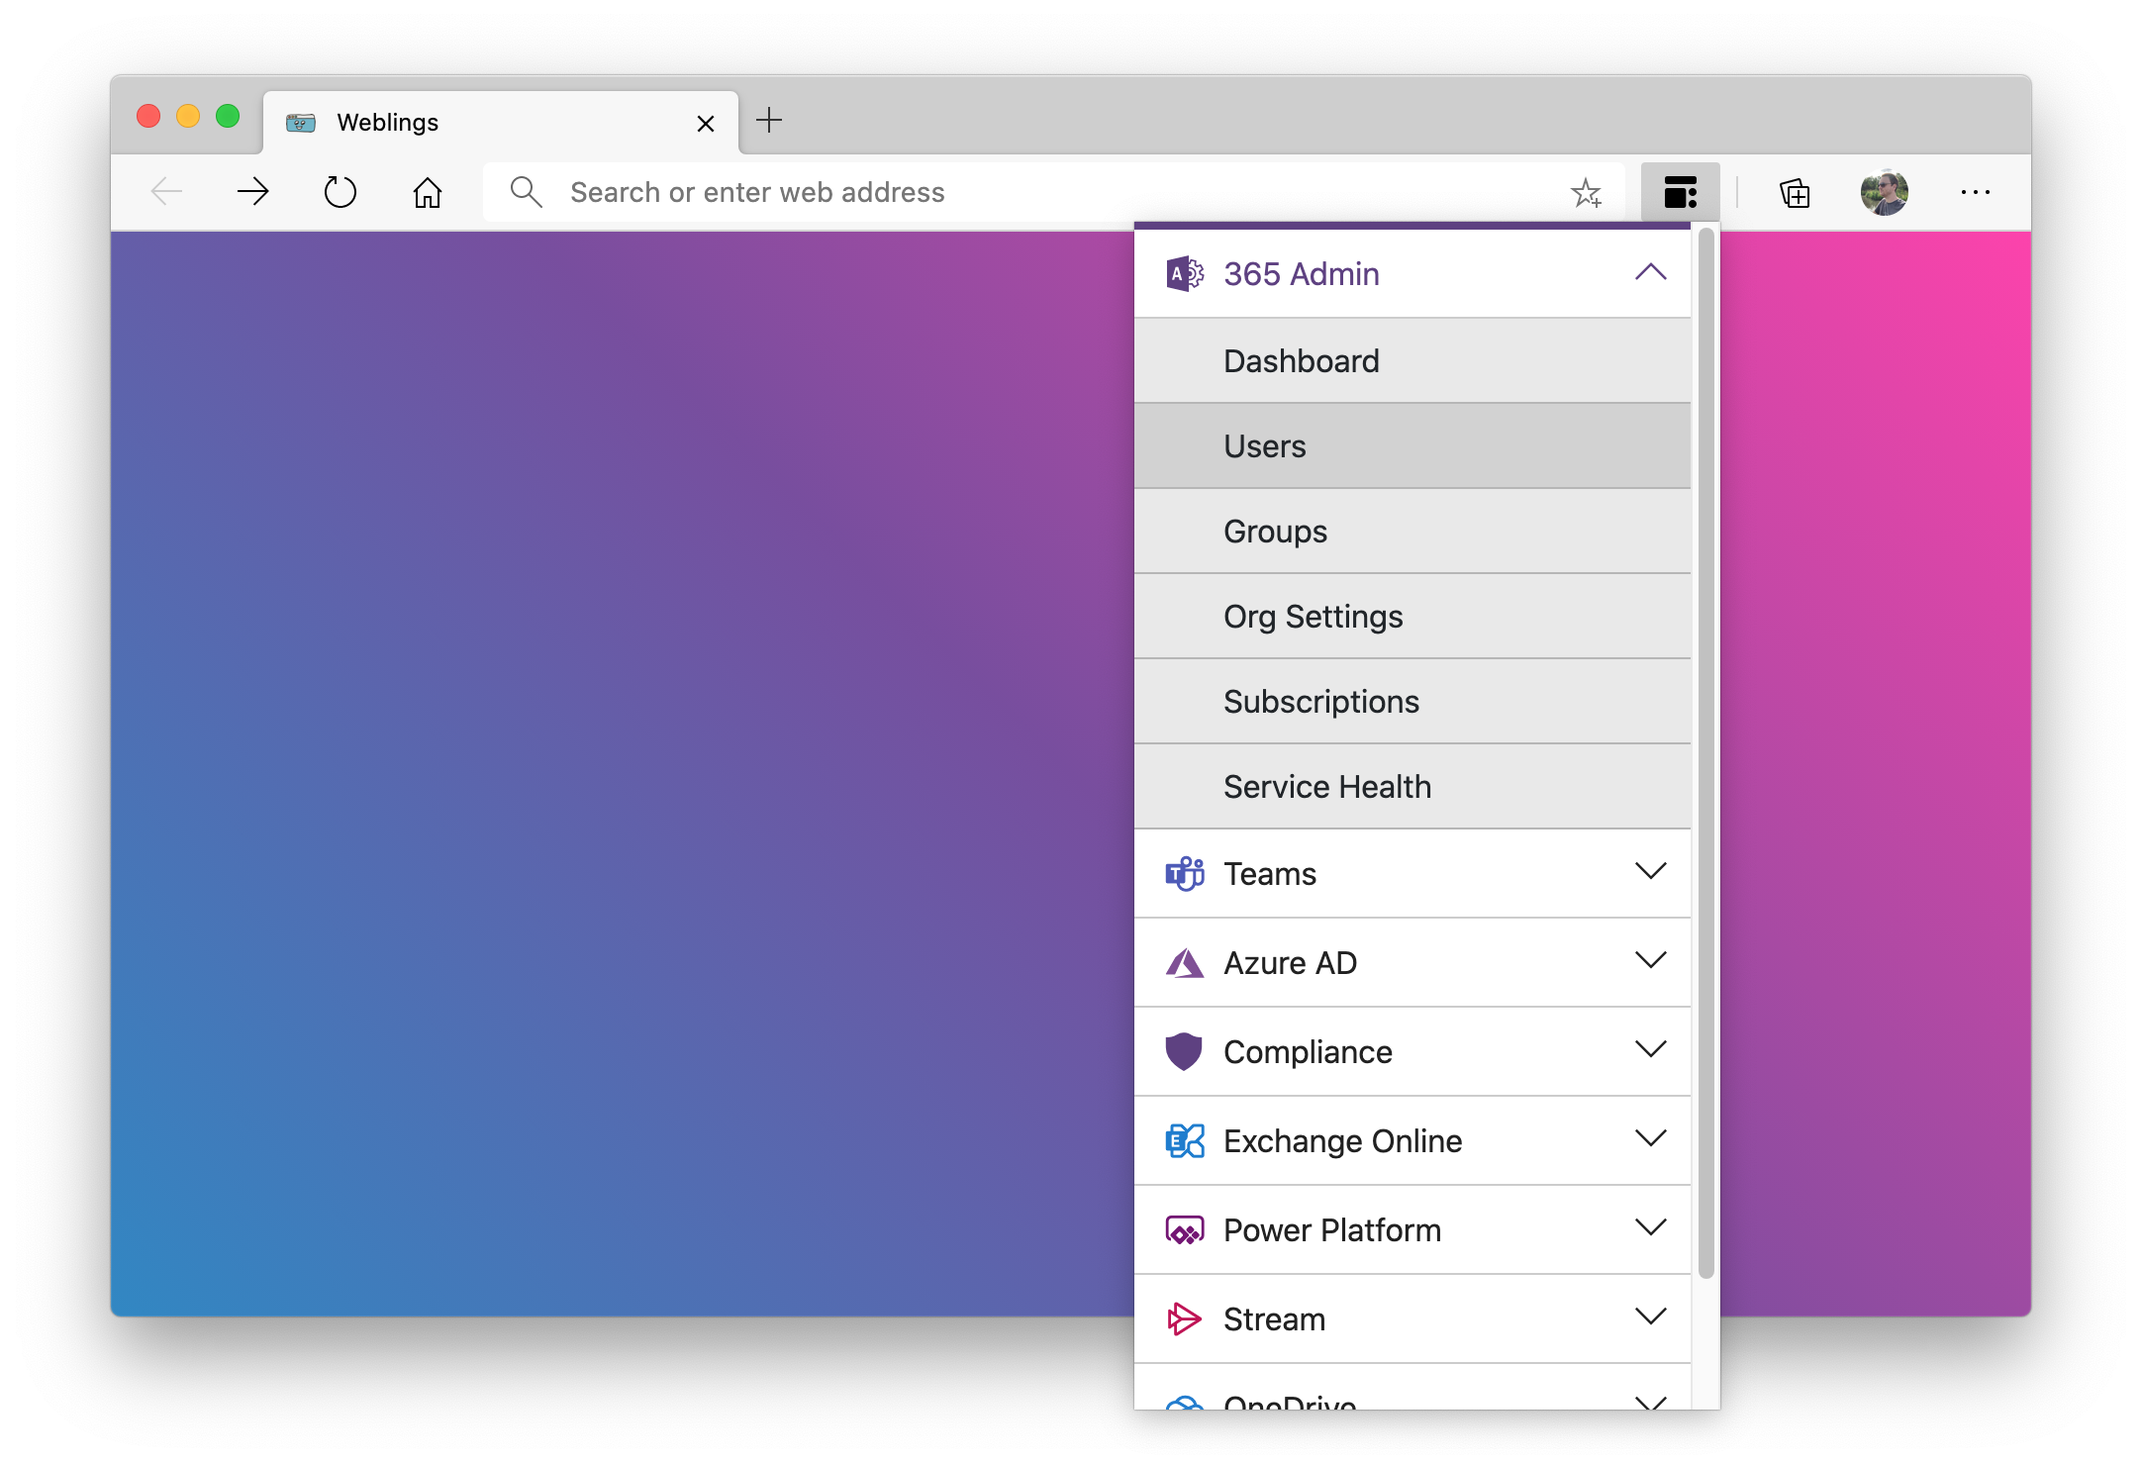
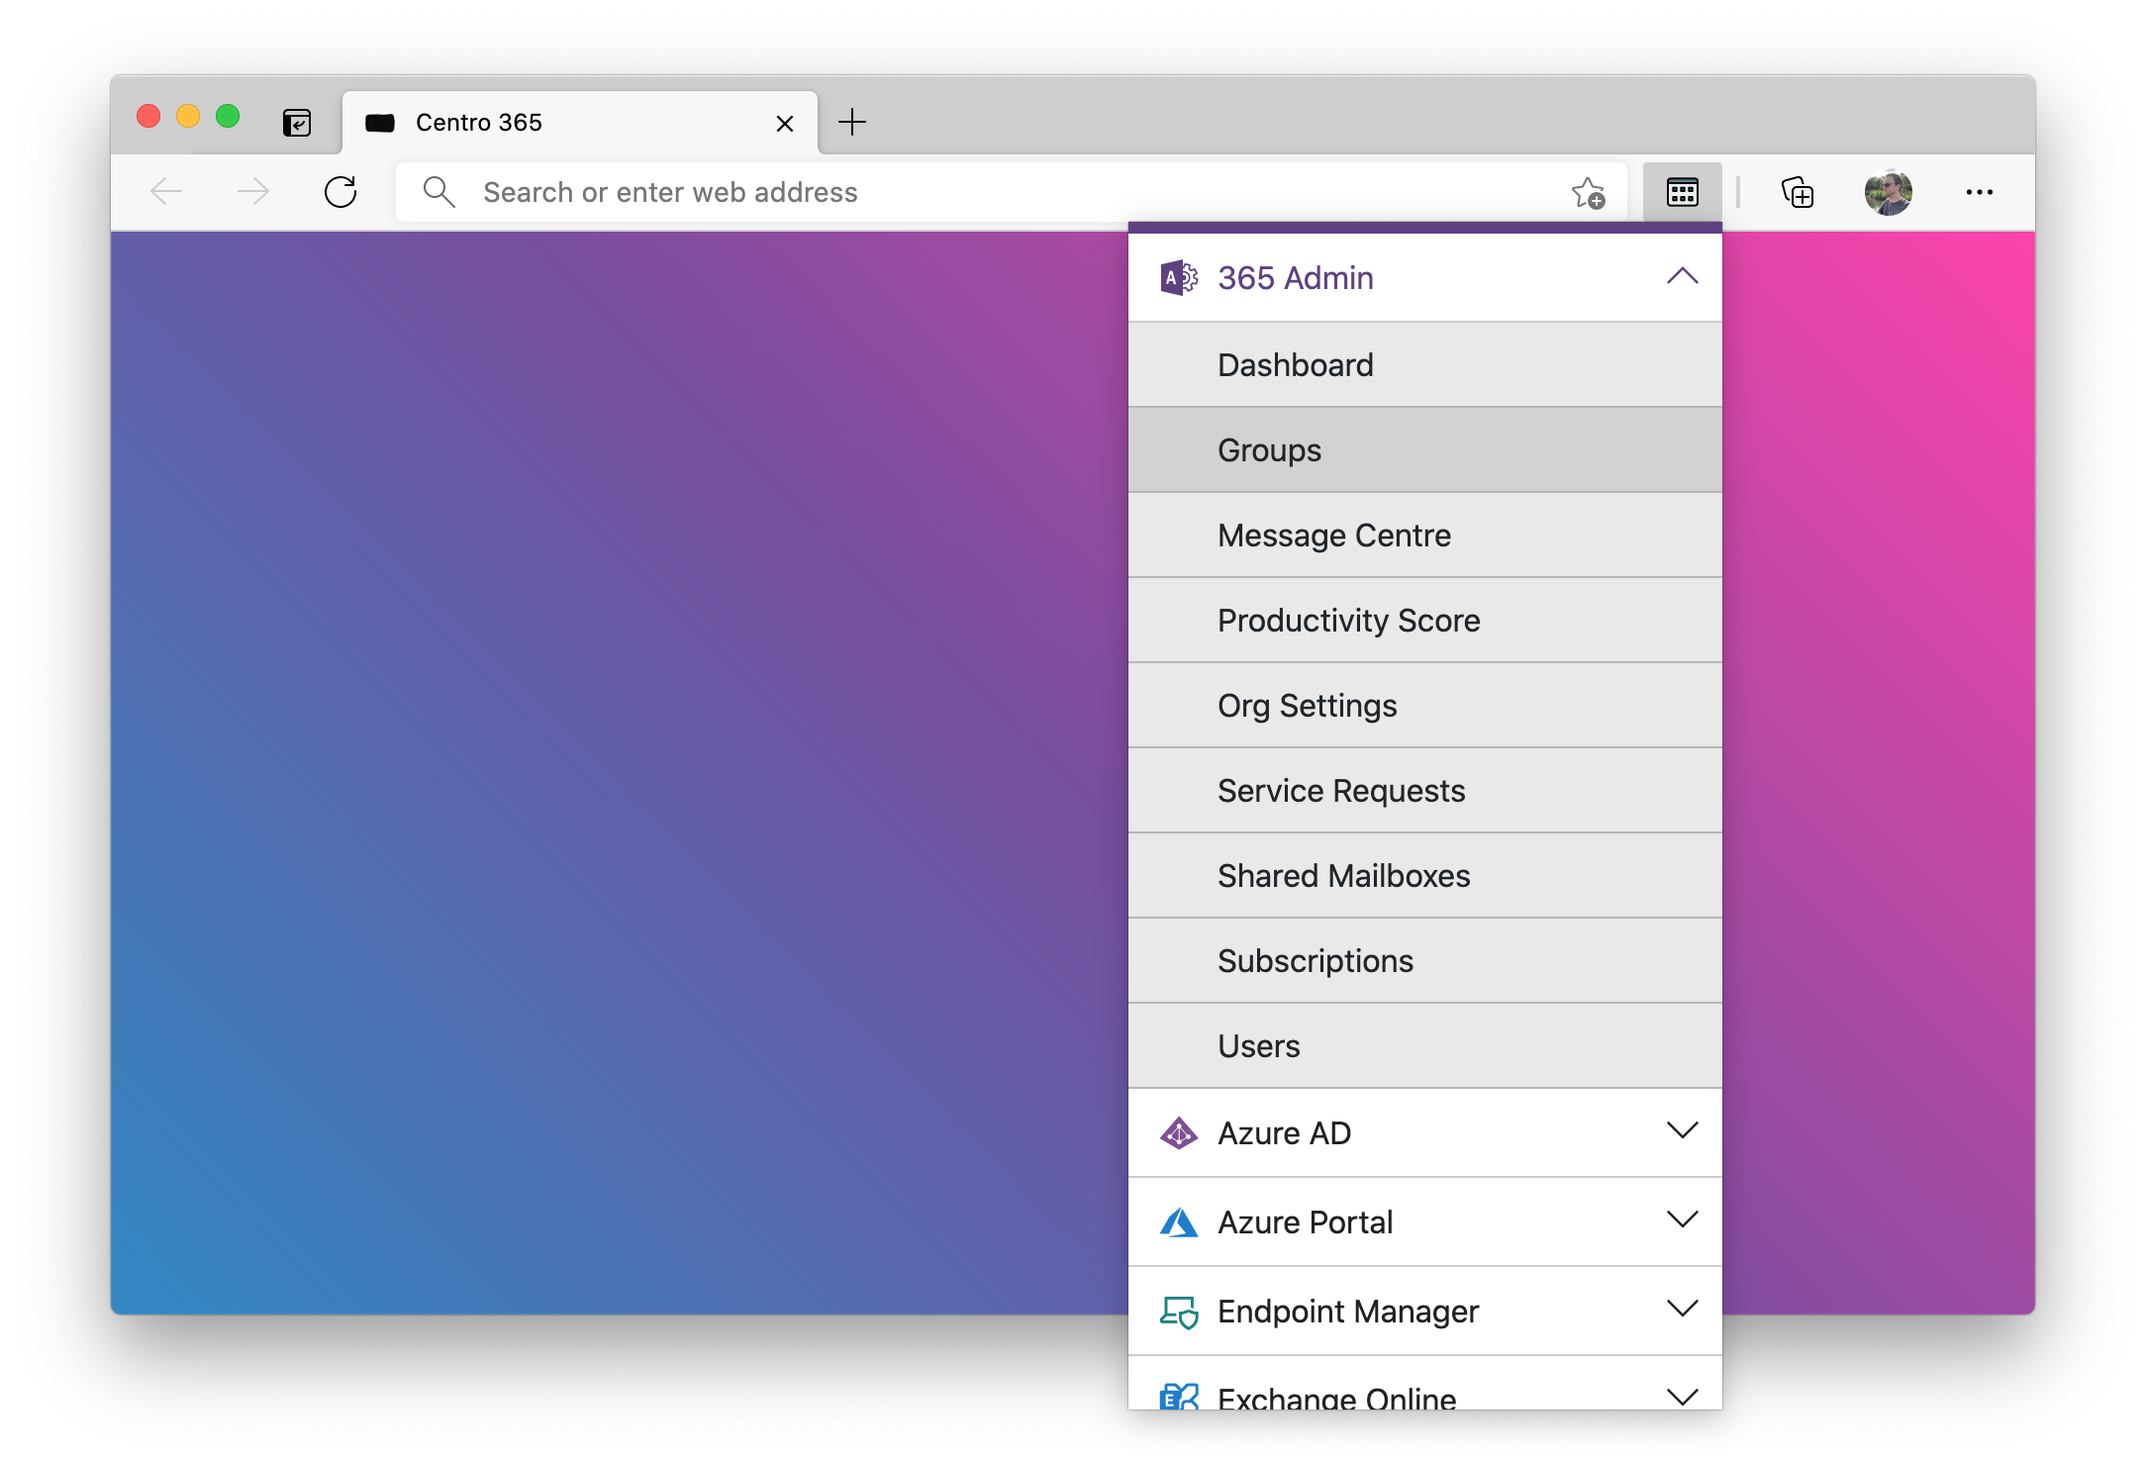
✳ v1.3
New sections, new iconography, additional entries. Small UI improvements.

diff --git a/source/index.html b/source/index.html
@@ -31,7 +31,6 @@
             <li><a href="https://admin.microsoft.com/AdminPortal/Home#/MessageCenter" target="_blank" rel="noopener noreferrer">Message Centre</a></li>
             <li><a href="https://admin.microsoft.com/AdminPortal/Home#/productivityscore" target="_blank" rel="noopener noreferrer">Productivity Score</a></li>
             <li><a href="https://admin.microsoft.com/AdminPortal/Home#/Settings/Services" target="_blank" rel="noopener noreferrer">Org Settings</a></li>
-            <li><a href="https://admin.microsoft.com/AdminPortal/Home#/servicehealth" target="_blank" rel="noopener noreferrer">Service Health</a></li>
             <li><a href="https://admin.microsoft.com/AdminPortal/Home#/support/requests" target="_blank" rel="noopener noreferrer">Service Requests</a></li>
             <li><a href="https://admin.microsoft.com/AdminPortal/Home#/SharedMailbox" target="_blank" rel="noopener noreferrer">Shared Mailboxes</a></li>
             <li><a href="https://admin.microsoft.com/AdminPortal/Home#/subscriptions" target="_blank" rel="noopener noreferrer">Subscriptions</a></li>
@@ -62,10 +61,12 @@
           <ul class="submenuItems">
             <li><a href="https://portal.azure.com/#home" target="_blank" rel="noopener noreferrer">Dashboard</a></li>
             <li><a href="https://portal.azure.com/#blade/Microsoft_Azure_Expert/AdvisorMenuBlade/overview" target="_blank" rel="noopener noreferrer">Advisor</a></li>
+            <li><a href="https://portal.azure.com/#cloudshell" target="_blank" rel="noopener noreferrer">Cloud Shell</a></li>
             <li><a href="https://portal.azure.com/#blade/Microsoft_Azure_Monitoring/AzureMonitoringBrowseBlade/overview" target="_blank" rel="noopener noreferrer">Monitoring & Insights</a></li>
             <li><a href="https://portal.azure.com/#blade/Microsoft_Azure_Policy/PolicyMenuBlade/Overview" target="_blank" rel="noopener noreferrer">Policy</a></li>
             <li><a href="https://portal.azure.com/#blade/HubsExtension/BrowseResource/resourceType/Microsoft.Storage%2FStorageAccounts" target="_blank" rel="noopener noreferrer">Storage Accounts</a></li>
             <li><a href="https://portal.azure.com/#blade/Microsoft_Azure_Billing/SubscriptionsBlade" target="_blank" rel="noopener noreferrer">Subscriptions</a></li>
+            <li><a href="https://portal.azure.com/#blade/Universal_Print/MainMenuBlade/Overview" target="_blank" rel="noopener noreferrer">Universal Print</a></li>
             <li><a href="https://portal.azure.com/#blade/HubsExtension/BrowseResourceBlade/resourceType/Microsoft.Compute%2FVirtualMachines" target="_blank" rel="noopener noreferrer">Virtual Machines</a></li>
             <li><a href="https://portal.azure.com/#blade/HubsExtension/BrowseResource/resourceType/Microsoft.Network%2FvirtualNetworks" target="_blank" rel="noopener noreferrer">Virtual Networks</a></li>
             <li><a href="https://portal.azure.com/#blade/Microsoft_Azure_WVD/WvdManagerMenuBlade/overview" target="_blank" rel="noopener noreferrer">Windows Virtual Desktop</a></li>
@@ -73,16 +74,16 @@
         </li>
 
         <li>
-          <div class="dropdownlink"><i class="ms-Icon ms-Icon ms-Icon--ShieldSolid iconsize" style="color: #5e3f82;" aria-hidden="true"></i> Compliance
+          <div class="dropdownlink"><i class="ms-Icon ms-Icon ms-Icon--LaptopSecure iconsize" style="color: #148386;" aria-hidden="true"></i> Endpoint Manager
               <i class="ms-Icon ms-Icon--ChevronDown" aria-hidden="true"></i>
           </div>
           <ul class="submenuItems">
-            <li><a href="https://compliance.microsoft.com" target="_blank" rel="noopener noreferrer">Home</a></li>
-            <li><a href="https://compliance.microsoft.com/compliancealerts" target="_blank" rel="noopener noreferrer">Alerts</a></li>
-            <li><a href="https://protection.office.com/contentsearchbeta?ContentOnly=1" target="_blank" rel="noopener noreferrer">Content Search</a></li>
-            <li><a href="https://compliance.microsoft.com/compliancemanager" target="_blank" rel="noopener noreferrer">Compliance Manager</a></li>
-            <li><a href="https://compliance.microsoft.com/dataclassification?viewid=overview" target="_blank" rel="noopener noreferrer">Data Classification</a></li>
-            <li><a href="https://protection.office.com/homepage" target="_blank" rel="noopener noreferrer">Office 365 Compliance</a></li>
+            <li><a href="https://endpoint.microsoft.com/#dashboard" target="_blank" rel="noopener noreferrer">Dashboard</a></li>
+            <li><a href="https://endpoint.microsoft.com/#blade/Microsoft_Intune_DeviceSettings/AppsMenu/overview" target="_blank" rel="noopener noreferrer">Apps</a></li>
+            <li><a href="https://endpoint.microsoft.com/#blade/Microsoft_Intune_DeviceSettings/DevicesMenu/overview" target="_blank" rel="noopener noreferrer">Devices</a></li>
+            <li><a href="https://endpoint.microsoft.com/#blade/Microsoft_Intune_Workflows/SecurityManagementMenu/overview" target="_blank" rel="noopener noreferrer">Endpoint Security</a></li>
+            <li><a href="https://endpoint.microsoft.com/#blade/Microsoft_Intune_Enrollment/ReportingMenu/Overview" target="_blank" rel="noopener noreferrer">Reports</a></li>
+            <li><a href="https://endpoint.microsoft.com/#blade/Microsoft_Intune_DeviceSettings/TenantAdminMenu/tenantStatus" target="_blank" rel="noopener noreferrer">Tenant Admin</a></li>
           </ul>
         </li>
 
@@ -122,6 +123,22 @@
             <li><a href="https://admin.powerplatform.microsoft.com/resources/capacity" target="_blank" rel="noopener noreferrer">Capacity</a></li>
             <li><a href="https://admin.powerplatform.microsoft.com/ext/DataIntegration" target="_blank" rel="noopener noreferrer">Data Integration</a></li>
             <li><a href="https://admin.powerplatform.microsoft.com/environments" target="_blank" rel="noopener noreferrer">Environments</a></li>
+            <li><a href="https://powerva.microsoft.com/" target="_blank" rel="noopener noreferrer">Virtual Agents</a></li>
+          </ul>
+        </li>
+
+        <li>
+          <div class="dropdownlink"><i class="ms-Icon ms-Icon ms-Icon--ShieldSolid iconsize" style="color: #8a1040;" aria-hidden="true"></i> Security &amp; Compliance
+              <i class="ms-Icon ms-Icon--ChevronDown" aria-hidden="true"></i>
+          </div>
+          <ul class="submenuItems">
+            <li><a href="https://security.microsoft.com/homepage" target="_blank" rel="noopener noreferrer">365 Security Centre</a></li>
+            <li><a href="https://compliance.microsoft.com/compliancealerts" target="_blank" rel="noopener noreferrer">Alerts</a></li>
+            <li><a href="https://protection.office.com/contentsearchbeta?ContentOnly=1" target="_blank" rel="noopener noreferrer">Content Search</a></li>
+            <li><a href="https://compliance.microsoft.com/compliancemanager" target="_blank" rel="noopener noreferrer">Compliance Manager</a></li>
+            <li><a href="https://compliance.microsoft.com/dataclassification?viewid=overview" target="_blank" rel="noopener noreferrer">Data Classification</a></li>
+            <li><a href="https://securitycenter.windows.com/" target="_blank" rel="noopener noreferrer">Defender Security Centre</a></li>
+            <li><a href="https://protection.office.com/homepage" target="_blank" rel="noopener noreferrer">Office 365 Compliance</a></li>
           </ul>
         </li>
 
@@ -159,6 +176,18 @@
             <li><a href="https://admin.teams.microsoft.com/users" target="_blank" rel="noopener noreferrer">Users</a></li>
           </ul>
         </li>
+
+        <li>
+          <div class="dropdownlink"><i class="ms-Icon ms-Icon ms-Icon--DeveloperTools iconsize" style="color: #5a5154;" aria-hidden="true"></i> Troubleshooting
+              <i class="ms-Icon ms-Icon--ChevronDown" aria-hidden="true"></i>
+          </div>
+          <ul class="submenuItems">
+            <li><a href="https://cqd.teams.microsoft.com/spd/#/Dashboard" target="_blank" rel="noopener noreferrer">Call Quality Dashboard</a></li>
+            <li><a href="https://connectivity.office.com/" target="_blank" rel="noopener noreferrer">Network Connectivity Test</a></li>
+            <li><a href="https://admin.microsoft.com/AdminPortal/Home#/servicehealth" target="_blank" rel="noopener noreferrer">Service Health</a></li>
+          </ul>
+        </li>
+        
       </ul>
 
       <p class="about"><a href=about.html style="font-size: 0.7rem;">About Centro 365</a> </p>

diff --git a/source/about.html b/source/about.html
@@ -20,19 +20,15 @@
     <div id="container_frame">
 
         <h4 class="about">About Centro 365&nbsp;<i class="ms-Icon ms-Icon--StatusCircleQuestionMark" aria-hidden="true"></i></h4>
-        <p><a href="https://seanosullivan.co.uk" target="_blank" rel="noopener noreferrer">A simple and straightforward extension for managing 365, whipped up over the course of a weekend. I hope you like it&nbsp;<i class="ms-Icon ms-Icon--Emoji2" aria-hidden="true"></i> <br /><br />
-          By Sean O'Sullivan</a>&nbsp;<i class="ms-Icon ms-Icon--Link" aria-hidden="true"></i></p>        
-        <h4 class="about">Contribute&nbsp;<i class="ms-Icon ms-Icon--GitGraph" aria-hidden="true"></i></h4>
-        <p><a href="https://github.com/seanosullivanuk/centro365" target="_blank" rel="noopener noreferrer">Contribute to the project on GitHub</a>&nbsp;<i class="ms-Icon ms-Icon--Link" aria-hidden="true"></i></p>
-
+        <p><a href="https://seanosullivan.co.uk/projects/centro365/" target="_blank" rel="noopener noreferrer">A simple and straightforward extension for managing Microsoft 365 and Microsoft Azure. I hope you like it&nbsp;<i class="ms-Icon ms-Icon--Emoji2" aria-hidden="true"></i> <br /><br />
+          By Sean O'Sullivan</a>&nbsp;<i class="ms-Icon ms-Icon--Link" aria-hidden="true"></i><br /><br /></p>        
 
         <h4 class="about">Acknowledgements&nbsp;<i class="ms-Icon ms-Icon--People" aria-hidden="true"></i></h4>
-        <p><a href="https://www.flaticon.com/free-icon/pattern-design_3528140?term=wireframe&page=1&position=12" target="_blank" rel="noopener noreferrer">Extension icon, by Pixel Perfect, from Flaticon.com</a>&nbsp;<i class="ms-Icon ms-Icon--Link" aria-hidden="true"></i></p>
+        <p><a href="https://www.flaticon.com/free-icon/apps_2800136" target="_blank" rel="noopener noreferrer">Extension icon, colour, by Pixel Perfect. From Flaticon.com</a>&nbsp;<i class="ms-Icon ms-Icon--Link" aria-hidden="true"></i></p>
+        <p><a href="https://www.flaticon.com/free-icon/apps_2800036" target="_blank" rel="noopener noreferrer">Extension icon, B&W, by Pixel Perfect. From Flaticon.com</a>&nbsp;<i class="ms-Icon ms-Icon--Link" aria-hidden="true"></i></p>
         <p><a href="https://developer.microsoft.com/en-us/fluentui#/styles/web/icons" target="_blank" rel="noopener noreferrer">Icons from Microsoft Fluent UI</a>&nbsp;&amp;<a href="https://github.com/OfficeDev/office-ui-fabric-core"> Fabric Core</a>&nbsp;<i class="ms-Icon ms-Icon--Link" aria-hidden="true"></i></p>
         <p><a href="https://codepen.io/MrsColombo" target="_blank" rel="noopener noreferrer">Vertical accordion menu, derived from a CodePen by Julia Rietveld</a>&nbsp;<i class="ms-Icon ms-Icon--Link" aria-hidden="true"></i></p>
-        <p><a href="https://openjsf.org/" target="_blank" rel="noopener noreferrer">jQuery</a>&nbsp;<i class="ms-Icon ms-Icon--Link" aria-hidden="true"></i></p>
-
-    
+        <p><a href="https://openjsf.org/" target="_blank" rel="noopener noreferrer">jQuery</a>&nbsp;<i class="ms-Icon ms-Icon--Link" aria-hidden="true"></i><br /><br /></p>    
     </div>
 
   <script src='assets/js/jquery-3.5.1.min.js'></script>

diff --git a/source/assets/css/darkmode.css b/source/assets/css/darkmode.css
@@ -3,7 +3,7 @@
 Name:			    Dark Mode
 Description: 	Dark Mode stylesheet
 Author:		  	Sean O'Sullivan, including work derived from a CodePen by Julia Rietveld (https://codepen.io/MrsColombo)
-Version:	  	2020-10-11
+Version:	  	2021-02-13
 
 */
 
@@ -16,8 +16,8 @@ Version:	  	2020-10-11
     }
     
     #container_frame {
-        border-top: 4px solid #907ca8;
-        border-bottom: 4px solid #907ca8;
+        border-top: 6px solid #907ca8;
+        border-bottom: 6px solid #907ca8;
     }
     
     .accordion-menu {

diff --git a/source/assets/css/core.css b/source/assets/css/core.css
@@ -3,7 +3,7 @@
 Name:			    Core
 Description: 	Core stylesheet
 Author:		  	Sean O'Sullivan, including work derived from a CodePen by Julia Rietveld (https://codepen.io/MrsColombo)
-Version:	  	2020-10-11
+Version:	  	2021-02-13
 
 */
 
@@ -18,9 +18,9 @@ body {
 }
 
 #container_frame {
-    width: 281px;
-    border-top: 4px solid #5e3f82;
-    border-bottom: 4px solid #5e3f82;
+    width: 300px;
+    border-top: 6px solid #5e3f82;
+    border-bottom: 6px solid #5e3f82;
 }
 
 .iconsize {

diff --git a/README.md b/README.md
@@ -1,7 +1,7 @@
 # Centro 365
 
  <h4>
-    <img src="https://img.shields.io/badge/Centro%20365-1.2-purple.svg" />
+    <img src="https://img.shields.io/badge/Centro%20365-1.3-purple.svg" />
     <a href="https://github.com/seanosullivanuk/centro365/commits/main"><img src="https://img.shields.io/github/last-commit/seanosullivanuk/centro365.svg?style=plasticr"/></a>
  </h4>
 
@@ -13,13 +13,35 @@
 
 ![Centro 365 in Edge](https://raw.githubusercontent.com/seanosullivanuk/centro365/main/centro365-screenshot-edge.png)
 
-Make your administration of Microsoft 365 just that little bit easier.
+Make your administration of Microsoft 365 and Microsoft Azure just that little bit easier.
 
-Centro 365 provides quick and convenient access to many of the Microsoft 365 Admin Centres. Whether you administrate just one area of 365, or you're a Global Administrator, this handy cascading menu keeps everything within close reach.
+Centro 365 provides quick and convenient access to many of the Microsoft 365 and Microsoft Azure Admin Centres. Whether you administrate just one area, or you're a Global Administrator, this handy cascading menu keeps everything within close reach.
 
-There's support for dark mode, which switches in and out automatically, matching your operating system. What more can I say? It's a simple and straightforward web browser extension, whipped up over the course of a weekend whilst my wife was watching the racing. 🐴
+There's also support for dark mode, which switches in and out automatically, matching your operating system. What more can I say? It's a simple and straightforward web browser extension, whipped up over the course of a weekend whilst my wife was watching the racing. 🐴
 
 ## Changelog
+
+### 1.3 (13 Feb 2021)
+* [New] *Endpoint Manager* section
+    * Dashboard
+    * Apps
+    * Devices
+    * Endpoint Security
+    * Reports
+    * Tenant Admin
+* [New] *Troubleshooting* section
+    * Call Quality Dashboard
+    * Network Connectivity Test
+    * Service Health
+* [New] Additional entries
+    * *Azure Portal* > Universal Print
+    * *Azure Portal* > Cloud Shell
+    * *Power Platform* > Virtual Agents
+    * *Security & Compliance* > Defender Security Centre
+* [New] Brand new iconography. New colour icon for light mode and B&W icon for dark mode
+* [Updated] Renamed *Compliance* to *Security & Compliance*
+* [Updated] Small UI improvements
+* [Updated] Changes to the About page
 
 ### 1.2 (23 Jan 2021)
 * Additional entries for the 365 Admin Centre and Compliance
